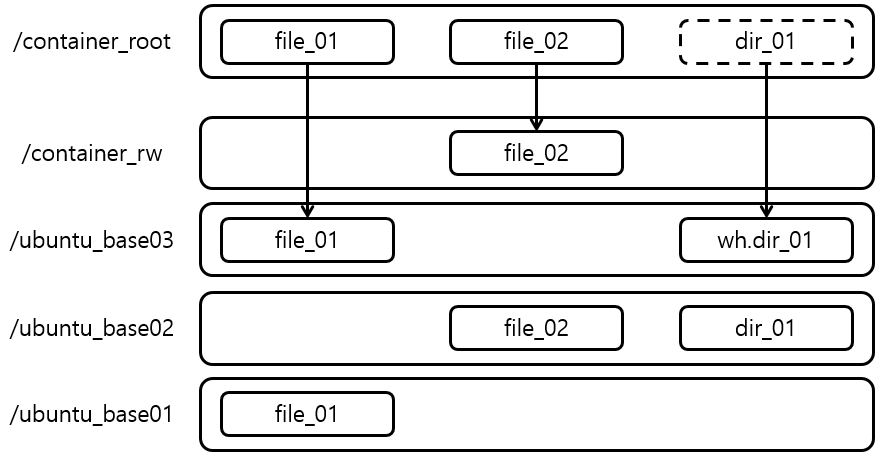
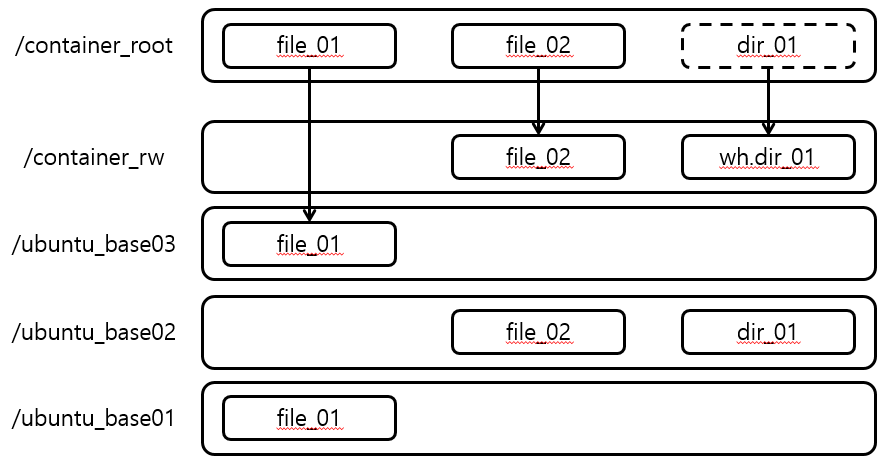
Update AUFS

diff --git a/_docs/theory_analysis/Union_Mount_AUFS_Docker_Image_Layer.md b/_docs/theory_analysis/Union_Mount_AUFS_Docker_Image_Layer.md
@@ -13,7 +13,7 @@ Union Mount를 간략하게 설명하고 리눅스에서 이용할 수 있는 Un
 
 <img src="{{site.baseurl}}/images/theory_analysis/Union_Mount_AUFS_Docker_Image_Layer/Union_Mount.PNG" width="600px">
 
-* Union이란 이름에서도 알 수 있듯이, 여러개의 Directory를 동시에 특정 Directory에 Mount하는 동작을 Union Mount라고 한다. 리눅스 환경에서 Union Mount를 이용하기 위해서는 AUFS를 이용하면 된다.
+* Union이란 이름에서도 알 수 있듯이, 여러개의 폴더를 동시에 특정 폴더에 Mount하는 동작을 Union Mount라고 한다. 리눅스 환경에서 Union Mount를 이용하기 위해서는 AUFS를 이용하면 된다.
 
 ### 2. AUFS
 
@@ -21,27 +21,39 @@ Union Mount를 간략하게 설명하고 리눅스에서 이용할 수 있는 Un
 
 > mount -t aufs -o br=/layer_rw=rw:/layer_01=ro+wh:/layer_02=ro+wh:/layer_03=ro+wh none /mnt
 
-* 아래의 AUFS 설명들은 위와 같은 명령어와 Option을 통해 AUFS Mount를 했다고 가정하에 진행한다. AUFS는 **br(Branch)**에 Union Mount를 위한 Directory들을 나열한다. /layer_rw Directory는 rw로 Mount되고 나머지 Directory들은 ro로 Mount되는것을 확인 할 수 있다. 또한 /layer_rw가 br 옵션의 가장 앞에 있기 때문에 /layer_rw는 branch의 root가 된다. /mnt Directory에 Branch Directory들이 Union Mount 된다.
+* 아래의 AUFS 설명들은 위와 같은 명령어와 Option을 통해 AUFS Mount를 했다고 가정하에 진행한다. AUFS는 **br(Branch)**에 Union Mount를 위한 폴더들을 나열한다. /layer_rw 폴더는 RW Branch가 되고 나머지 폴더들은 RO Branch가 되는것을 확인 할 수 있다. 또한 /layer_rw가 br 옵션의 가장 앞에 있기 때문에 /layer_rw는 Root Branch가 된다. /mnt 폴더에 Branch 폴더들이 Union Mount 된다.
 
-* AUFS에서는 파일의 삭제를 나타내기 위해 **whiteout** 파일을 이용한다. 기본적으로 AUFS는 Branch의 root Directory안에 있는 whiteout 파일만 참조하지만 +wh 옵션을 주면 +wh 옵션이 있는 Directory의 whiteout 파일도 참조한다.
+* AUFS에서는 파일의 삭제를 나타내기 위해 **Whiteout** 파일을 이용한다. 기본적으로 AUFS는 Root Branch안에 있는 Whiteout 파일만 참조하지만 +wh 옵션을 주면 +wh 옵션이 있는 폴더의 Whiteout 파일도 참조한다.
 
 #### 2.1. Read, Write
 
 <img src="{{site.baseurl}}/images/theory_analysis/Union_Mount_AUFS_Docker_Image_Layer/AUFS_Read_Write.PNG" width="600px">
 
-* Branch Directory들이 서로 다른 파일들을 갖고있는 경우 AUFS Mount를 통해 특정 Directory에 Brach Directory의 파일들이 모여도 문제가 없다는걸 예측 할 수 있다. 동일한 경로에 동일한 파일 이름이 있는 경우, 위의 그림처럼 AUFS Mount가된 Directory내에서는 오직 Branch의 가장 마지막에 있는 Directory의 파일만 볼 수 있다.
+* Read - Branch 폴더들이 서로 다른 파일들을 갖고있는 경우 AUFS Mount를 통해 특정 폴더에 Brach 폴더의 파일들이 모여도 문제가 없다는걸 예측 할 수 있다. 동일한 경로에 동일한 파일 이름이 있는 경우, 위의 그림처럼 AUFS Mount가 된 폴더내에서는 오직 Branch의 가장 마지막에 있는 폴더의 파일만 볼 수 있다. 위 그림에서 file_01 파일은 /layer_03 폴더와 /layer_01 폴더에 있지만 /mnt 폴더 내에서는 /layer_01의 file_01만 보이게 된다.
 
-* Branch  
+* Write - AUFS는 COW(Copy on Write)방식을 이용한다. /mnt 폴더에서 파일을 쓰는 경우, 써진 파일은 AUFS의 RW Branch 폴더에 그대로 저장된다. 위 그림은 file_02 파일이 변경될때를 나타내고 있다. /mnt 폴더 내에서 file_02를 변경하는 경우 AUFS는 변경된 일부분이 아니라 **변경된 파일** 전체를 /layer_rw 폴더에 복사한다. 그 후 /mnt 폴더 내에서는 변경된 file_02만 보이지만 /layer_02 폴더안에 원본 파일도 그대로 유지되는 것을 알 수 있다.
 
 #### 2.2. Remove
 
 <img src="{{site.baseurl}}/images/theory_analysis/Union_Mount_AUFS_Docker_Image_Layer/AUFS_Remove.PNG" width="600px">
 
+* Remove - 파일이나 폴더를 지우는 경우 RW Branch 폴더에 .wh.<file_or_dir_name> Writeout 파일을 생성하여 AUFS Mount가 된 폴더 내에서는 파일이 안보이지만, 원본은 유지된다. 위 그림에서는 file_01 파일을 삭제할 경우를 나타내고 있다. 또한 RO Branch 폴더안에 있는 Whiteout 파일의 역활도 나타내고 있다. Mount시 RO Branch에 +wh 옵션을 주었기 때문에 RO Branch의 Whiteout 파일이 하위 Branch의 파일을 안보이게 만든다.
+
 <img src="{{site.baseurl}}/images/theory_analysis/Union_Mount_AUFS_Docker_Image_Layer/AUFS_Remove_opq.PNG" width="600px">
 
+* Remove and Create Dir - AUFS의 Whiteout 파일중 .wh..wh..opq라는 특수한 Whiteout 파일이 있다. Branch의 특정 폴더내에 .wh..wh..opq 파일이 있으면 하위 Branch들의 해당 폴더내의 모든 파일들은 AUFS Mount가 된 폴더내에서 볼 수 없다. 위 그림은 .wh..wh..opq 파일의 역활을 나타내고 있다. /layer_rw Branch의 /dir 폴더에 .wh..wh..opq 파일이 있기 때문에 하위 /layer_02 Branch의 /dir폴더 안에 있는 모든 파일들은 /mnt 폴더에서 보이지 않는다. /mnt 폴더에서 dir 폴더 자체를 삭제했다가 다시 dir 폴더를 생성하는 경우, 위 그림처럼 AUFS에서는 /layer_rw Branch의 /dir 폴더안에 .wh..wh..opq 파일 생성을 통해 처리한다.
+
 ### 3. Docker Image Layer
- Docker Daemon에서 AUFS 이용시 위와 동일한 옵션을 이용한다.
+
+> mount -t aufs -o br=/container_rw=rw:/ubuntu_base01=ro+wh:/ubuntu_base02=ro+wh:/ubuntu_base03=ro+wh none /container_root
+
 <img src="{{site.baseurl}}/images/theory_analysis/Union_Mount_AUFS_Docker_Image_Layer/Docker_Image_Layer.PNG" width="600px">
+
+* AUFS를 이해했다면 Docker Daemon이 어떻게 Image Layer를 이용하는지 예측 할 수 있다. 위 명령어와 그림은 Docker Daemon이 Docker Container 생성시 AUFS를 어떻게 이용하는지를 나타내고 있다. Docker Container 생성시 Container를 위한 Root 폴더와 RW 폴더를 생성한 뒤, AUFS Mount를 /container_root 폴더에 수행한다. Container는 /container_root 폴더가 실제 Root 폴더라고 생각하고 동작한다.
+
+* Container가 동작하면서 변경하거나 추가한 파일들은 모두 /container_rw 폴더에 남게 된다. RO Branch들인 Ubuntu Branch들에게는 전혀 영향을 주지 않는다. 따라서 Docker Container Snapshot은 /container_rw를 복사하는 동작만 수행하게 된다. 결국 Docker Image Layer는 AUFS의 Branch 폴더라는 것을 알 수 있다.
+
+* Docker Daemon은 현재 AUFS뿐만 아니라 ZFS, OverlayFS 등 다양한 파일시스템을 Backend 파일시스템으로 이용하고 있다. 위 설명은 AUFS를 이용할 경우에만 해당한다. 하지만 Docker Daemon이 AUFS를 Backend 파일시스템으로 이용하고 있지 않더라도 Docker Image를 Upload/Download 할때에는 Image Layer를 AUFS의 Branch 폴더를 tar.gz 형태로 주고 받는다. AUFS는 파일로만 구성되기 때문에 다양한 파일시스템 위에서 이용될 수 있기 때문이다.
 
 ### 4. 참조
 
